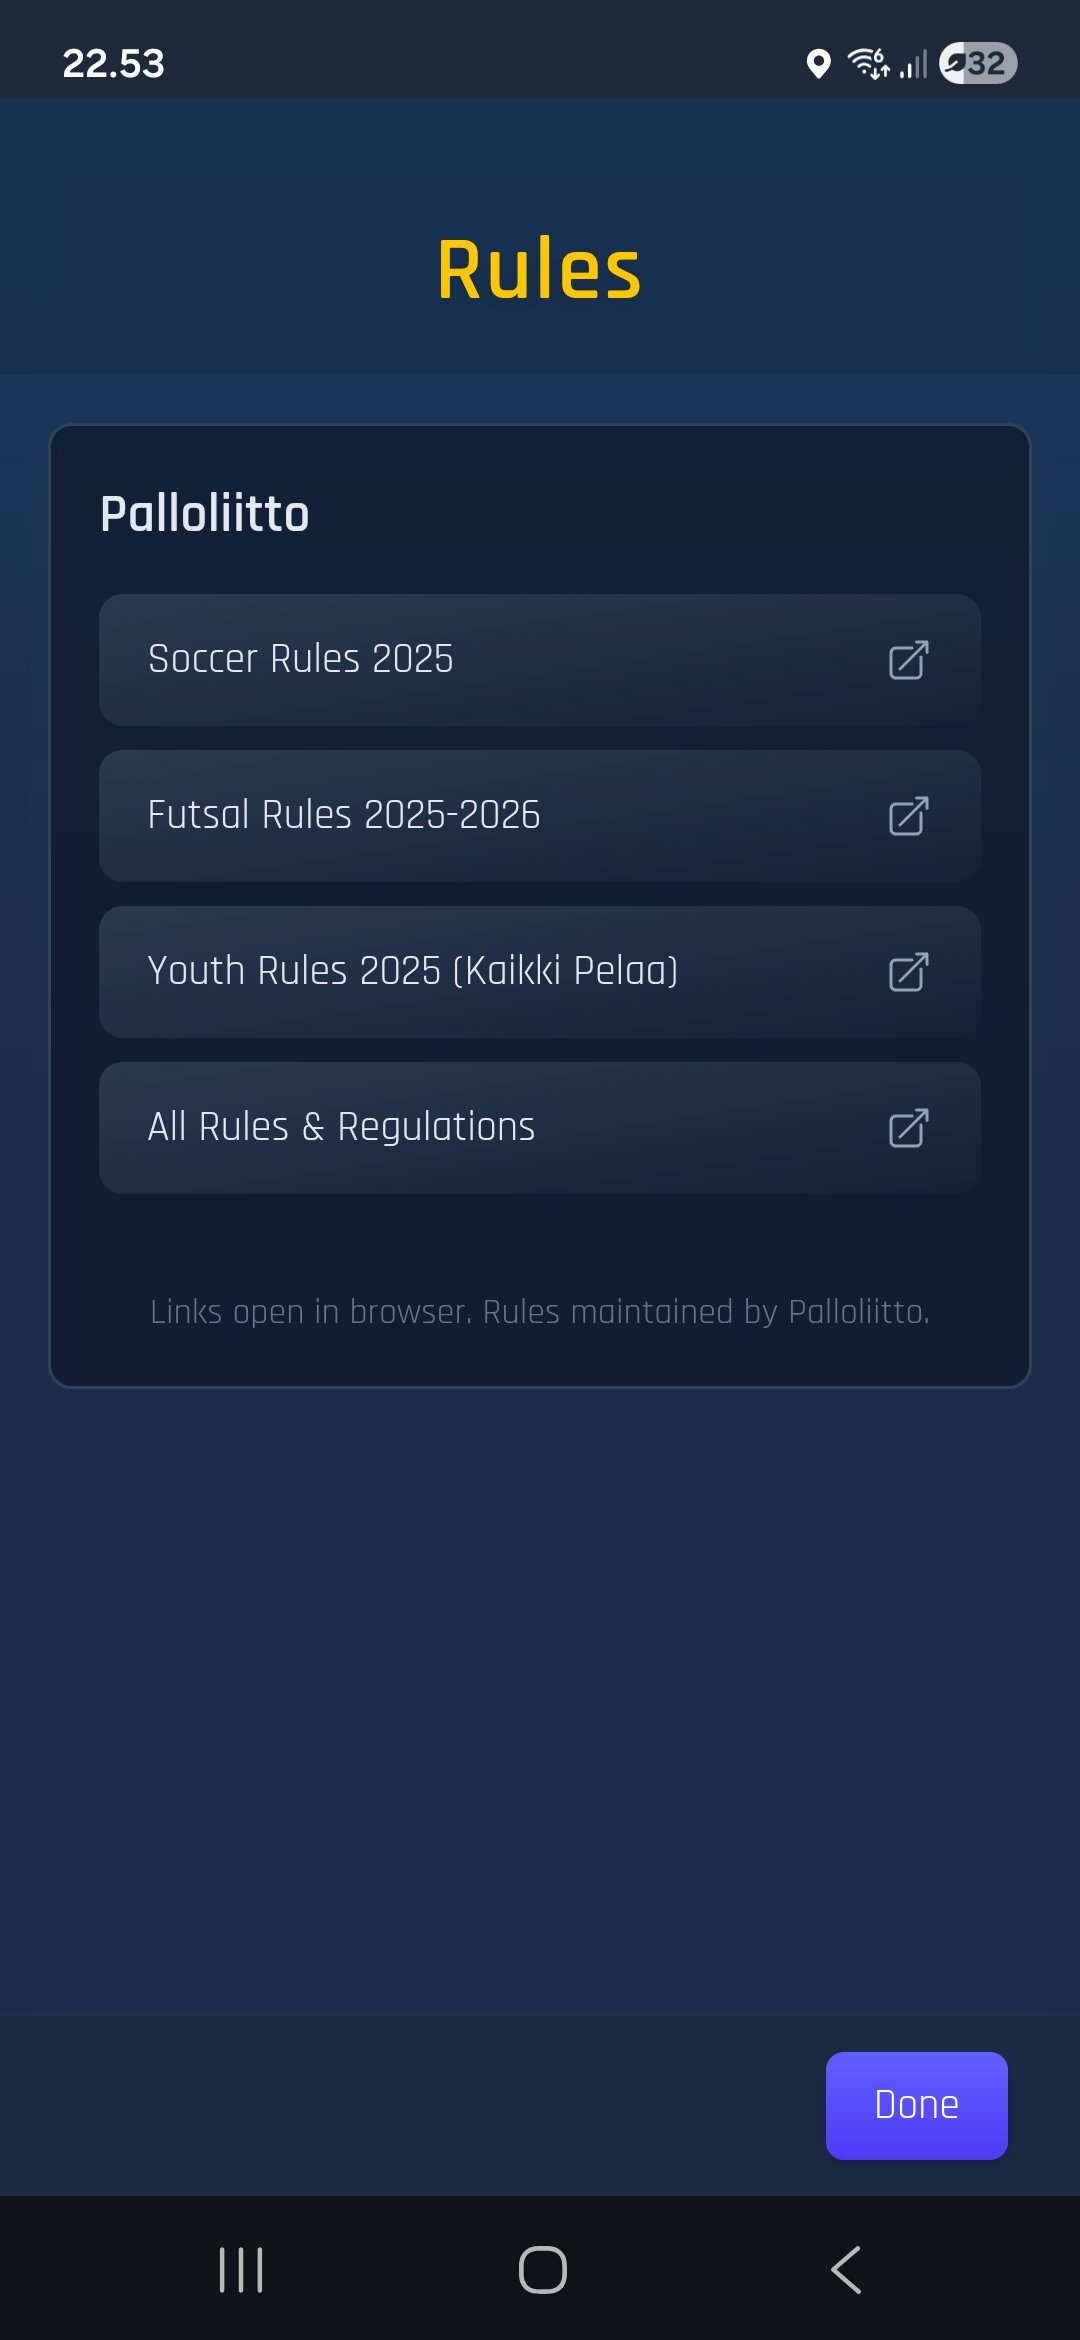
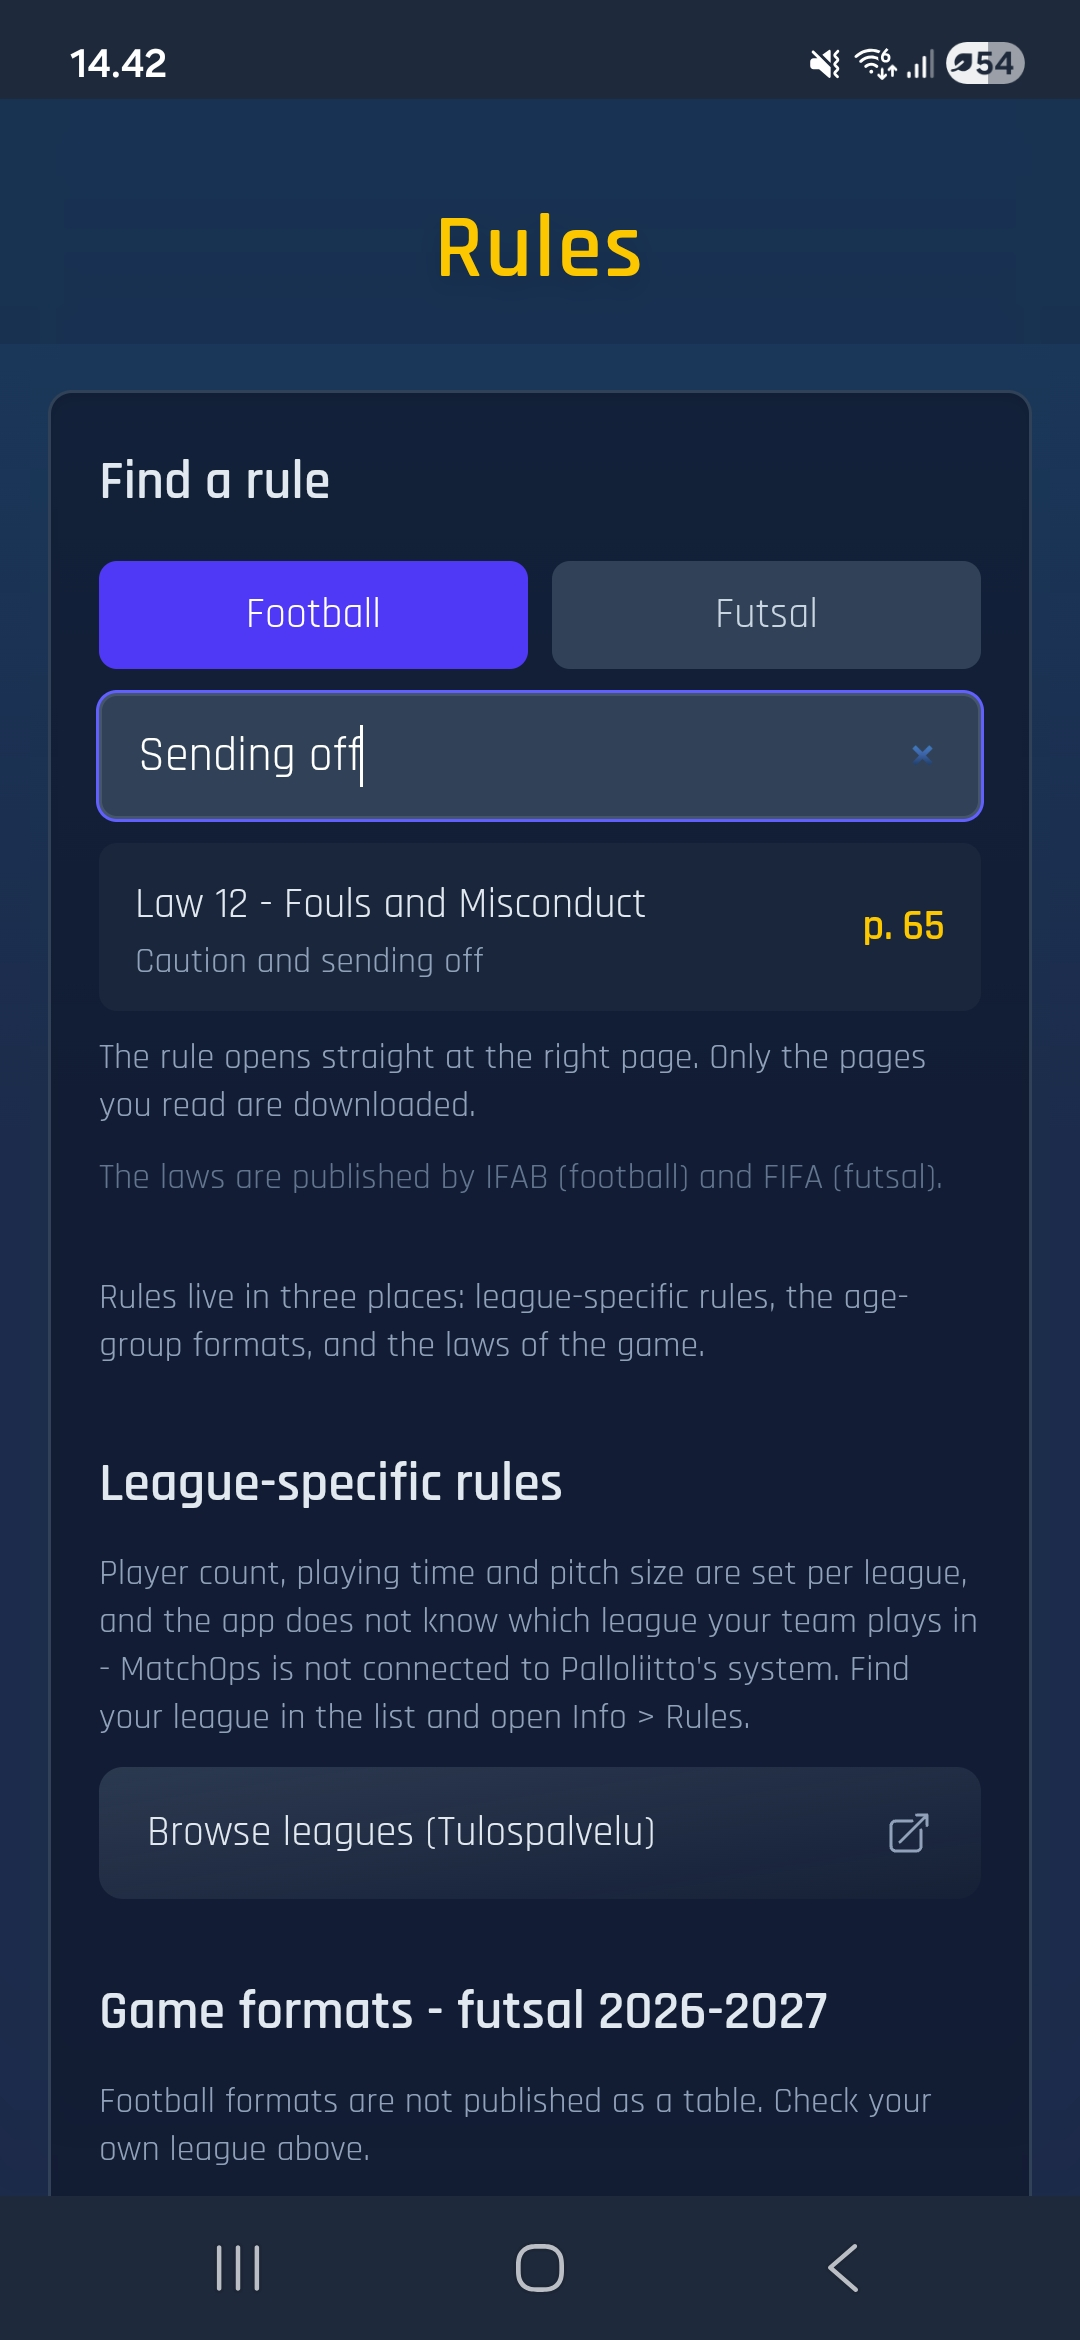
Marketing site: the English rules screenshot
Shows "sending off" finding Law 12 - Fouls and Misconduct at p. 65. The
searched phrase is not the title of any law, which is the whole claim the
card makes: search in the words a coach uses, not the words IFAB used.

One result rather than the Finnish shot's two. Not a gap: "kentältäpoisto"
appears in both the sin bin entry and the Law 12 entry, while their English
names ("Temporary dismissal" and "Caution and sending off") share no word.
The two shots never appear side by side either - a reader sees only their
own locale - so matching the Finnish framing would buy nothing.

Both rule cards now have current screenshots.

Claude-Session: https://claude.ai/code/session_01KeY7QUkHKMt5DK6MCUM3ES

diff --git a/site/pages/index.tsx b/site/pages/index.tsx
@@ -68,12 +68,13 @@ const getScreenshots = (locale: string | undefined) => {
       ? '/screenshots/MatchOps_v2_personnel_en.jpg'
       : '/screenshots/MatchOps_v2_personnel_fi.jpg',
     futsal: '/screenshots/MatchOps_v2_futsal_en_fi.jpg',
-    // Retaken 2026-09-10 for FI: the previous shot showed "Jalkapallosäännöt
+    // Both retaken 2026-09-10. The previous pair showed "Jalkapallosäännöt
     // 2025", "Futsalsäännöt 2025-2026" and "Kaikki Pelaa 2025" - the last of
     // which Palloliitto has delisted entirely - in the links-only layout that
-    // search replaced. English is still awaiting its shot and runs text-only
-    // rather than showing a Finnish screen to an English reader.
-    officialRules: isEnglish ? undefined : '/screenshots/MatchOps_v2_rules_fi.jpg',
+    // search replaced.
+    officialRules: isEnglish
+      ? '/screenshots/MatchOps_v2_rules_en.jpg'
+      : '/screenshots/MatchOps_v2_rules_fi.jpg',
     cloudSync: isEnglish
       ? '/screenshots/MatchOps_v2_cloudsync_en.jpg'
       : '/screenshots/MatchOps_v2_cloudsync_fi.jpg',
